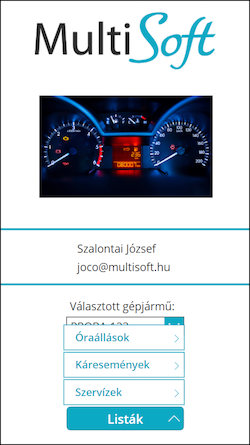
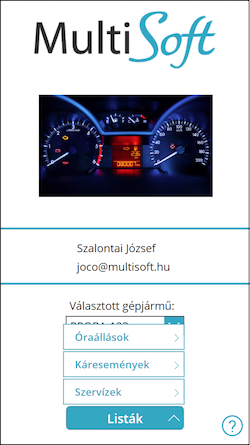
Refreshed UI images

diff --git a/docs/chapters/login/05_StartPage.md b/docs/chapters/login/05_StartPage.md
@@ -22,3 +22,5 @@ A gombokkal a következő funkciók érhetők el:
     - **Szervízek**
 
 ![login](static/images/LoginPage2.png)
+
+A bal alsó sarokban található **?** ikonra koppintva ez az online help nyílik meg egy böngészőablakban.
